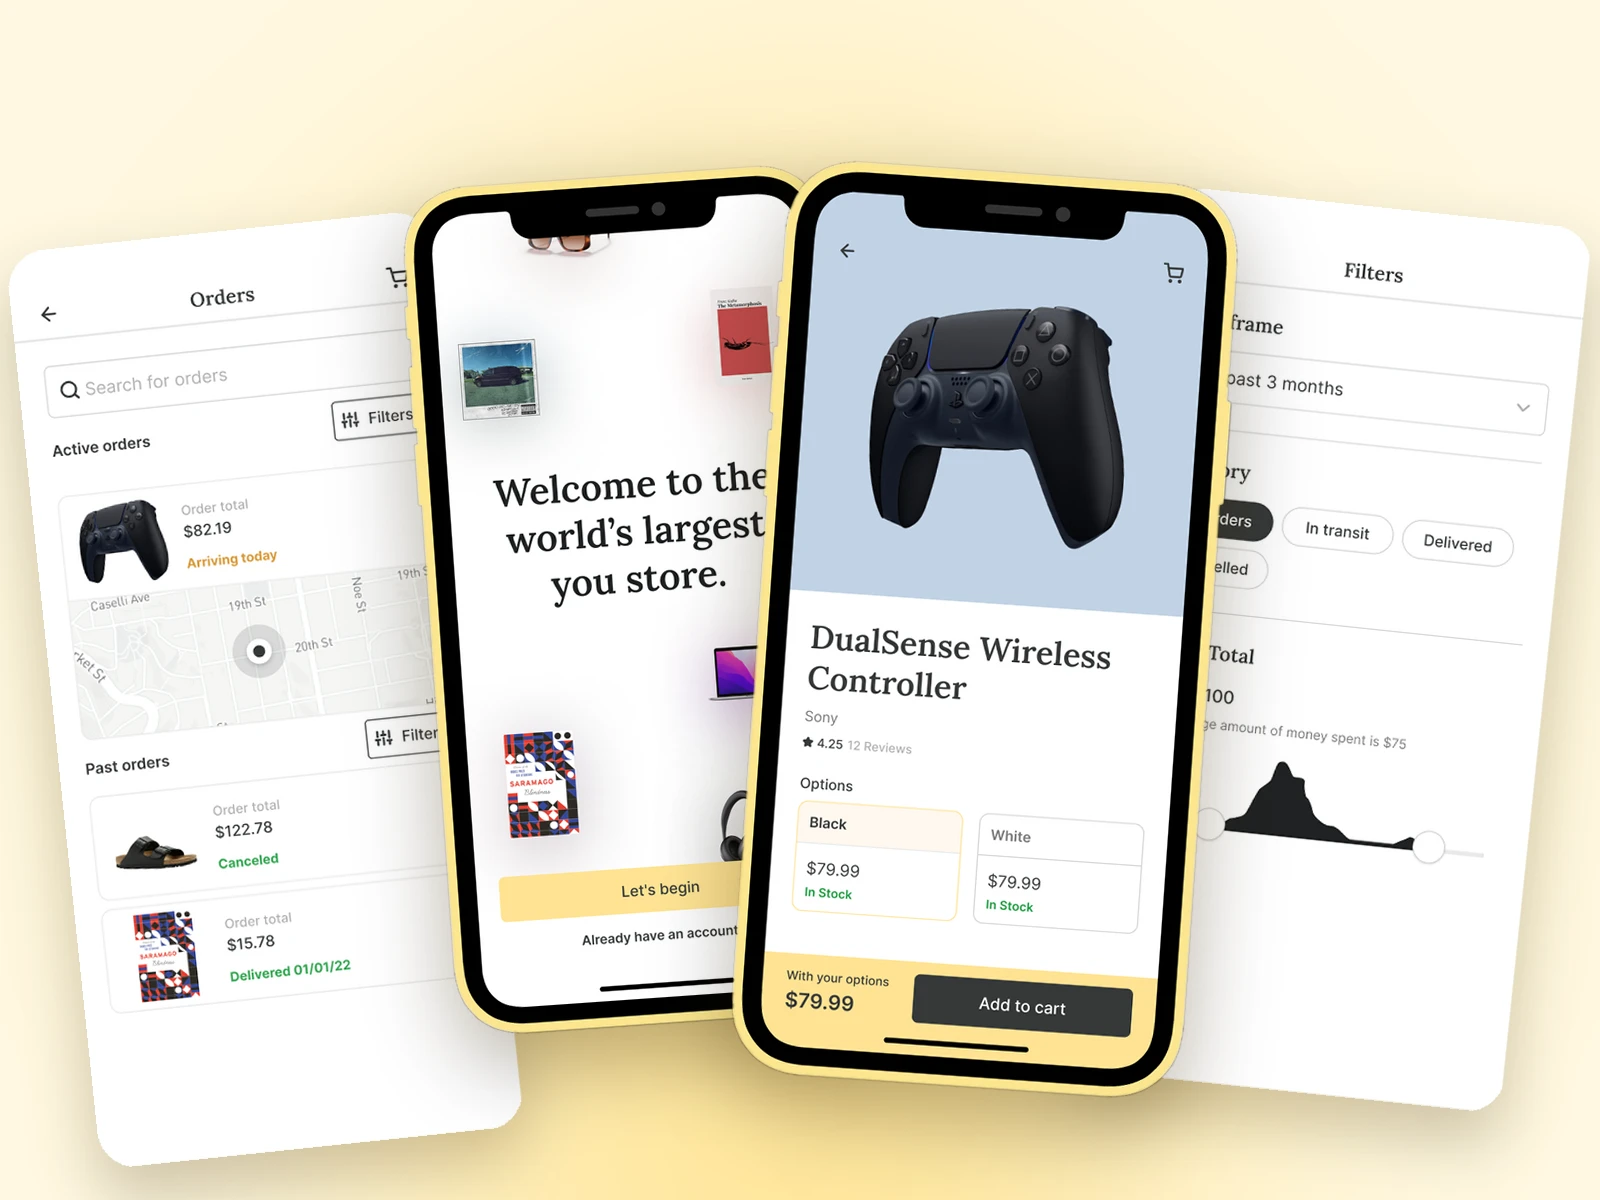
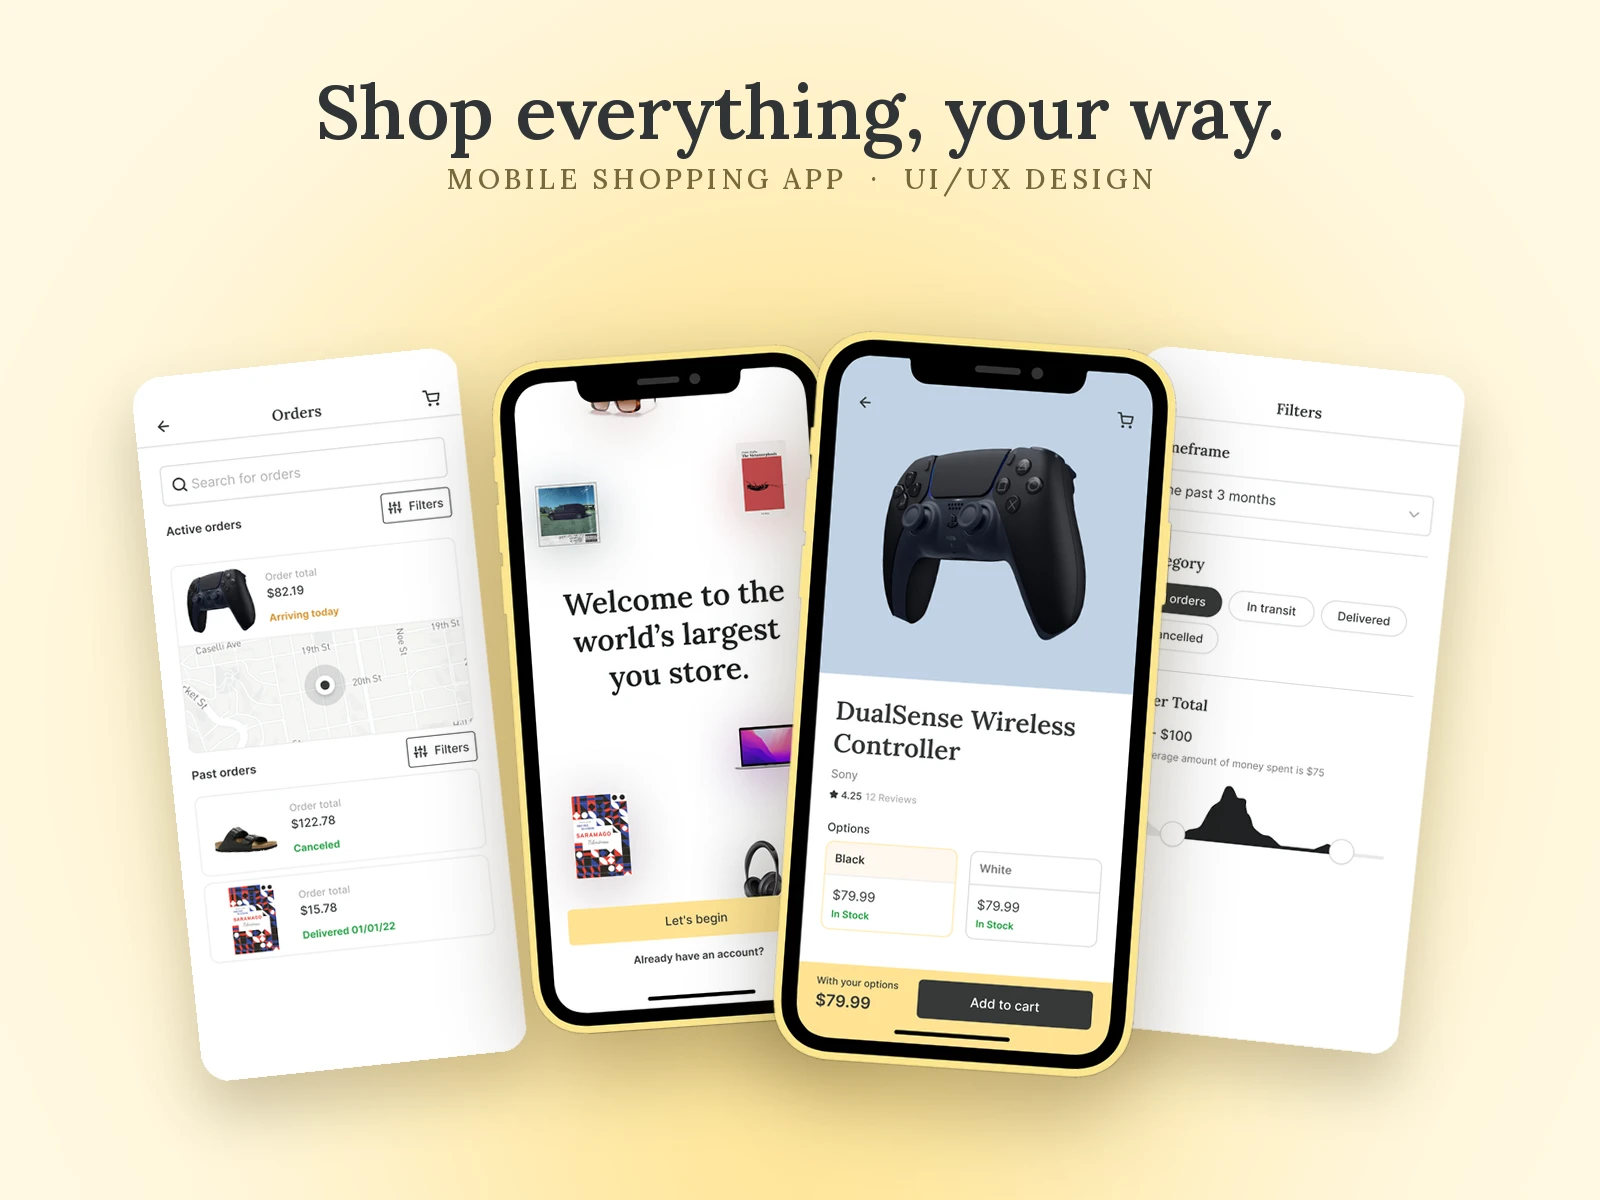
Swap the Snapp end thumbnail for the new "Shop everything, your way." image

diff --git a/index.html b/index.html
@@ -9,7 +9,7 @@
 <link rel="preconnect" href="https://fonts.gstatic.com" crossorigin>
 <link href="https://fonts.googleapis.com/css2?family=Quicksand:wght@500;600;700&family=Poppins:wght@300;400;500;600&display=swap" rel="stylesheet">
 <link href="https://fonts.googleapis.com/css2?family=Inter:wght@400;500;600&family=Lora:wght@500;600&family=Caveat:wght@500;600&display=swap" rel="stylesheet">
-<link rel="stylesheet" href="styles.css?v=1790946906_3814">
+<link rel="stylesheet" href="styles.css?v=1790947147_4011">
 </head>
 <body>
 
@@ -182,7 +182,7 @@
               <div><b style="font-family:Inter">Aa</b>Sans UI text</div>
             </div>
           </div>
-          <div class="s2s-end"><img src="images/snap-thumb-end.webp" alt="Snapp screens: orders, welcome, product detail and filters" width="1600" height="1200"></div>
+          <div class="s2s-end"><img src="images/snap-thumb-end.webp" alt="Shop everything, your way. Mobile shopping app UI/UX design: orders, welcome, product detail and filters screens" width="1600" height="1200"></div>
         </div>
         </section>
         <a class="project-panel__info" href="projects/snapp/">
@@ -465,6 +465,6 @@
 </main>
 
 <script src="https://cdn.jsdelivr.net/npm/lenis@1.3.26/dist/lenis.min.js"></script>
-<script src="script.js?v=1790946870_3751"></script>
+<script src="script.js?v=1790947147_4011"></script>
 </body>
 </html>

diff --git a/projects/tiny-rocket/index.html b/projects/tiny-rocket/index.html
@@ -16,7 +16,7 @@
 <link rel="preconnect" href="https://fonts.googleapis.com">
 <link rel="preconnect" href="https://fonts.gstatic.com" crossorigin>
 <link href="https://fonts.googleapis.com/css2?family=Quicksand:wght@500;600;700&family=Poppins:wght@300;400;500;600&display=swap" rel="stylesheet">
-<link rel="stylesheet" href="../../styles.css?v=1790946906_3814">
+<link rel="stylesheet" href="../../styles.css?v=1790947147_4011">
 </head>
 <body>
 
@@ -147,7 +147,7 @@
   </section>
 </main>
 
-<script src="../../script.js?v=1790946870_3751"></script>
+<script src="../../script.js?v=1790947147_4011"></script>
 <script>document.getElementById('year').textContent = new Date().getFullYear();</script>
 </body>
 </html>

diff --git a/projects/dashboard/index.html b/projects/dashboard/index.html
@@ -8,7 +8,7 @@
 <link rel="preconnect" href="https://fonts.googleapis.com">
 <link rel="preconnect" href="https://fonts.gstatic.com" crossorigin>
 <link href="https://fonts.googleapis.com/css2?family=Quicksand:wght@500;600;700&family=Poppins:wght@300;400;500;600&display=swap" rel="stylesheet">
-<link rel="stylesheet" href="../../styles.css?v=1790946906_3814">
+<link rel="stylesheet" href="../../styles.css?v=1790947147_4011">
 </head>
 <body>
 
@@ -237,7 +237,7 @@
   </section>
 </main>
 
-<script src="../../script.js?v=1790946870_3751"></script>
+<script src="../../script.js?v=1790947147_4011"></script>
 <script>document.getElementById('year').textContent = new Date().getFullYear();</script>
 </body>
 </html>

diff --git a/projects/plant-b/index.html b/projects/plant-b/index.html
@@ -8,7 +8,7 @@
 <link rel="preconnect" href="https://fonts.googleapis.com">
 <link rel="preconnect" href="https://fonts.gstatic.com" crossorigin>
 <link href="https://fonts.googleapis.com/css2?family=Quicksand:wght@500;600;700&family=Poppins:wght@300;400;500;600&display=swap" rel="stylesheet">
-<link rel="stylesheet" href="../../styles.css?v=1790946906_3814">
+<link rel="stylesheet" href="../../styles.css?v=1790947147_4011">
 </head>
 <body>
 
@@ -233,7 +233,7 @@
   </section>
 </main>
 
-<script src="../../script.js?v=1790946870_3751"></script>
+<script src="../../script.js?v=1790947147_4011"></script>
 <script>document.getElementById('year').textContent = new Date().getFullYear();</script>
 </body>
 </html>

diff --git a/projects/snapp/index.html b/projects/snapp/index.html
@@ -8,7 +8,7 @@
 <link rel="preconnect" href="https://fonts.googleapis.com">
 <link rel="preconnect" href="https://fonts.gstatic.com" crossorigin>
 <link href="https://fonts.googleapis.com/css2?family=Quicksand:wght@500;600;700&family=Poppins:wght@300;400;500;600&display=swap" rel="stylesheet">
-<link rel="stylesheet" href="../../styles.css?v=1790946906_3814">
+<link rel="stylesheet" href="../../styles.css?v=1790947147_4011">
 </head>
 <body>
 
@@ -624,7 +624,7 @@
   </section>
 </main>
 
-<script src="../../script.js?v=1790946870_3751"></script>
+<script src="../../script.js?v=1790947147_4011"></script>
 <script>document.getElementById('year').textContent = new Date().getFullYear();</script>
 </body>
 </html>

diff --git a/projects/breath-natural/index.html b/projects/breath-natural/index.html
@@ -8,7 +8,7 @@
 <link rel="preconnect" href="https://fonts.googleapis.com">
 <link rel="preconnect" href="https://fonts.gstatic.com" crossorigin>
 <link href="https://fonts.googleapis.com/css2?family=Quicksand:wght@500;600;700&family=Poppins:wght@300;400;500;600&display=swap" rel="stylesheet">
-<link rel="stylesheet" href="../../styles.css?v=1790946906_3814">
+<link rel="stylesheet" href="../../styles.css?v=1790947147_4011">
 </head>
 <body>
 
@@ -83,7 +83,7 @@
   </section>
 </main>
 
-<script src="../../script.js?v=1790946870_3751"></script>
+<script src="../../script.js?v=1790947147_4011"></script>
 <script>document.getElementById('year').textContent = new Date().getFullYear();</script>
 </body>
 </html>
